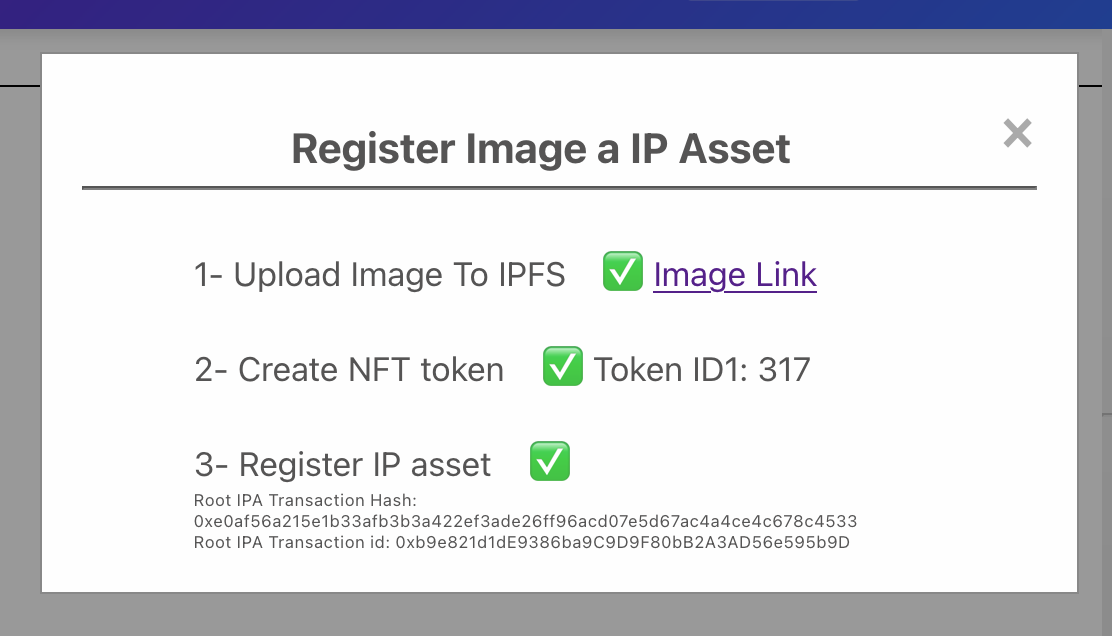
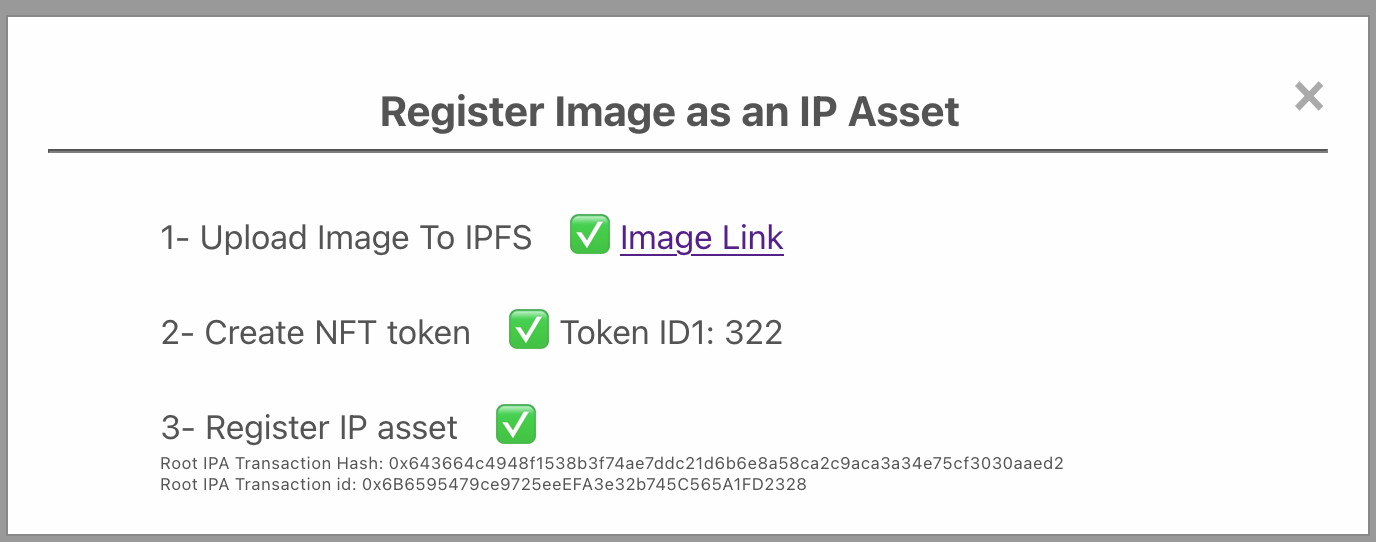
fix(readme): atypo in pic

Changed region(s): [[0.0, 0.0, 1.0, 1.0], [0.1223, 0.5314, 0.7338, 0.6494], [0.1223, 0.3838, 0.7338, 0.4723]]

diff --git a/src/components/ipAsset/ipAsset.tsx b/src/components/ipAsset/ipAsset.tsx
@@ -122,7 +122,7 @@ function ProcessModal(props: {
         <span className={styles['close']} onClick={() => props.setOpenModal(false)}>
           &times;
         </span>
-        <div className={styles.modalHeader}>Register Image a IP Asset</div>
+        <div className={styles.modalHeader}>Register Image as an IP Asset</div>
         <hr />
         <div className={styles.modalContent}>
           {' '}

diff --git a/README.md b/README.md
@@ -66,7 +66,7 @@ Each of these steps shows loading, success, or error states, with details about 
 
 ## Code Structure
 
-This is a React-based project using TypeScript. The most important libraries used in this project are:
+This is a React-based project using TypeScript. Source code has comprehensive comments. The most important libraries used in this project are:
 
 1. **Redux Toolkit** for global state management.
 2. **Fabric.js** for canvas manipulations.
